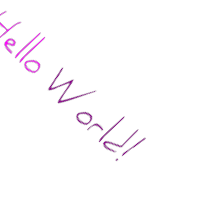
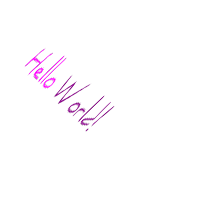
More font and test fixes

diff --git a/src/Font.cpp b/src/Font.cpp
@@ -97,8 +97,8 @@ double Gosu::Font::markup_width(const string& markup) const
         for (auto& part : line) {
             for (auto codepoint : part.text) {
                 auto& image = pimpl->image(codepoint, part.flags);
-                double scale_to_height = 1.0 * height() / image.height();
-                line_width += scale_to_height * image.width();
+                double image_scale = 1.0 * height() / image.height();
+                line_width += image_scale * image.width();
             }
         }
         width = max(width, line_width);
@@ -125,11 +125,11 @@ void Gosu::Font::draw_markup(const string& markup, double x, double y, ZPos z,
         for (auto& part : line) {
             for (auto codepoint : part.text) {
                 auto& image = pimpl->image(codepoint, part.flags);
-                double scale_to_height = scale_y * height() / image.height();
+                double image_scale = 1.0 * height() / image.height();
                 image.draw(current_x, current_y, z,
-                           scale_to_height * scale_x, scale_to_height,
+                           image_scale * scale_x, image_scale * scale_y,
                            multiply(c, part.color), mode);
-                current_x += scale_to_height * scale_x * image.width();
+                current_x += image_scale * scale_x * image.width();
             }
         }
         current_y += scale_y * height();
@@ -164,7 +164,12 @@ void Gosu::Font::set_image(std::string codepoint, unsigned font_flags, const Gos
         throw invalid_argument("Could not compose '" + codepoint + "' into a single codepoint");
     }
     
-    pimpl->image(utc4[0], font_flags) = image;
+    if (utc4[0] < pimpl->fast_glyphs[font_flags].size()) {
+        pimpl->fast_glyphs[font_flags][utc4[0]] = image;
+    }
+    else {
+        pimpl->other_glyphs[font_flags][utc4[0]] = image;
+    }
 }
 
 void Gosu::Font::set_image(std::string codepoint, const Gosu::Image& image)

diff --git a/src/TrueTypeFontWin.cpp b/src/TrueTypeFontWin.cpp
@@ -27,12 +27,12 @@ const unsigned char* Gosu::ttf_data_by_name(const string& font_name, unsigned fo
     if (buffer_ptr) return static_cast<const unsigned char*>(buffer_ptr->data());
 
     LOGFONT logfont = {
-        20 /* arbitrary font height */, 0, 0, 0,
+        0, 0, 0, 0,
         (font_flags & Gosu::FF_BOLD) ? FW_BOLD : FW_NORMAL,
         (font_flags & Gosu::FF_ITALIC) ? TRUE : FALSE,
         (font_flags & Gosu::FF_UNDERLINE) ? TRUE : FALSE,
         FALSE /* no strikethrough */,
-        DEFAULT_CHARSET, OUT_DEFAULT_PRECIS, CLIP_DEFAULT_PRECIS, ANTIALIASED_QUALITY,
+        ANSI_CHARSET, OUT_OUTLINE_PRECIS, CLIP_DEFAULT_PRECIS, ANTIALIASED_QUALITY,
         DEFAULT_PITCH | FF_DONTCARE
     };
     
@@ -49,7 +49,7 @@ const unsigned char* Gosu::ttf_data_by_name(const string& font_name, unsigned fo
                 buffer->resize(ttf_buffer_size);
                 if (GetFontData(hdc, 0, 0, buffer->data(), buffer->size()) != GDI_ERROR) {
                     auto data = static_cast<const unsigned char*>(buffer->data());
-                    if (TrueTypeFont::verify_font_name(data, font_name)) {
+                    if (TrueTypeFont::verify_font_name(data, font_name, font_flags)) {
                         buffer_ptr = buffer;
                     }
                 }

diff --git a/test/test_font.rb b/test/test_font.rb
@@ -37,8 +37,8 @@ class TestFont < Minitest::Test
   def test_draw_and_draw_rel
     font = Gosu::Font.new(10, name: media_path("daniel.otf"))
     
-    assert_output_matches "test_font/draw_markup", 0.99, [200, 50] do
-      font.draw_markup "Hi! <c=f00>Red.\r\nNew   line! Äöß\n", 5, 5, -6, 1, 2.0, 0xff_ff00ff, :add
+    assert_output_matches "test_font/draw_markup", 0.99, [200, 100] do
+      font.draw_markup "Hi! <c=f00>Red.\r\nNew   line! Äöß\n", 5, 5, -6, 2.0, 4.0, 0xff_ff00ff, :add
     end
     
     assert_output_matches "test_font/draw_markup_rel", 0.99, [100, 100] do
@@ -58,7 +58,7 @@ class TestFont < Minitest::Test
     
     # Font#draw_rot has been deprecated a long time ago.
     assert_output_matches "test_font/draw_rot", 0.99, [200, 200] do
-      font.draw_rot "<b>Hello</b> <c=888>World!</c>", 10, 0, 0, 45, 0.7, 3, 0xff_ff00ff, :add
+      font.draw_rot "<b>Hello</b> <c=888>World!</c>", 50, 40, 0, 45, 1, 3, 0xff_ff00ff, :add
     end
   end
 

diff --git a/src/TrueTypeFont.cpp b/src/TrueTypeFont.cpp
@@ -199,9 +199,12 @@ double Gosu::TrueTypeFont::draw_text(const u32string &text, double height,
     return pimpl->draw_text(text, true, height, bitmap, x, y, c);
 }
 
-bool Gosu::TrueTypeFont::verify_font_name(const unsigned char* ttf_data, const string& font_name)
+bool Gosu::TrueTypeFont::verify_font_name(const unsigned char* ttf_data, const string& font_name, unsigned font_flags)
 {
-    return stbtt_FindMatchingFont(ttf_data, font_name.c_str(), STBTT_MACSTYLE_NONE) >= 0 ||
+    // Gosu's FontFlags enum mostly uses the same values as the STBTT_ macros.
+    int flags = (font_flags == 0 ? STBTT_MACSTYLE_NONE : font_flags);
+
+    return stbtt_FindMatchingFont(ttf_data, font_name.c_str(), font_flags) >= 0 ||
            stbtt_FindMatchingFont(ttf_data, font_name.c_str(), STBTT_MACSTYLE_DONTCARE) >= 0;
 }
 

diff --git a/test/test_helper.rb b/test/test_helper.rb
@@ -77,7 +77,7 @@ module TestHelper
 
     expected_image = Gosu::Image.new(expected)
 
-    assert actual_image.similar?(expected_image, threshold), lambda {
+    message_proc = proc do
       message = "Screenshot should look similar to #{expected}"
       if ENV["TRAVIS"] || ENV["APPVEYOR"]
         # Print a diff when running in the CI so we can copy and paste the image if necessary.
@@ -85,7 +85,8 @@ module TestHelper
         message += diff([expected_image.to_blob].pack('m*'), [actual_image.to_blob].pack('m*'))
       end
       message
-    }
+    end
+    assert actual_image.similar?(expected_image, threshold), message_proc
   end
 end
 

diff --git a/test/test_text.rb b/test/test_text.rb
@@ -12,7 +12,7 @@ class TestText < Minitest::Test
     "whitespace" => "$ ls\n  .\t..\tfoo\r\n  bar\tqux        ",
     "markup"     => "<b>Bold, <u>underlined &amp; <i>italic. <c=4400ff>How <c=0f3>about</c> colors?</c></i></u>&lt;&gt;</b>",
     # All Emoji should be invisible for now.
-    "emoji"      => "Chinese Zodiac: '🐒🐓🐕🐖🐀🐂🐆🐇🐉🐍🐎🐑'[y%12]. ZWJ sequences: 👨🏿⚕ 👨👨👦",
+    # "emoji"      => "Chinese Zodiac: '🐒🐓🐕🐖🐀🐂🐆🐇🐉🐍🐎🐑'[y%12]. ZWJ sequences: 👨🏿⚕ 👨👨👦",
   }
   
   OPTION_SETS = [

diff --git a/src/TrueTypeFont.hpp b/src/TrueTypeFont.hpp
@@ -25,7 +25,8 @@ namespace Gosu
                          Bitmap* bitmap, double x, double y, Color c);
         
         //! Returns true if the supplied buffer seems to be a font of the given name.
-        static bool verify_font_name(const unsigned char* ttf_data, const std::string& font_name);
+        static bool verify_font_name(const unsigned char* ttf_data, 
+                                     const std::string& font_name, unsigned font_flags);
     };
     
     TrueTypeFont& font_by_name(const std::string& font_name, unsigned font_flags);
